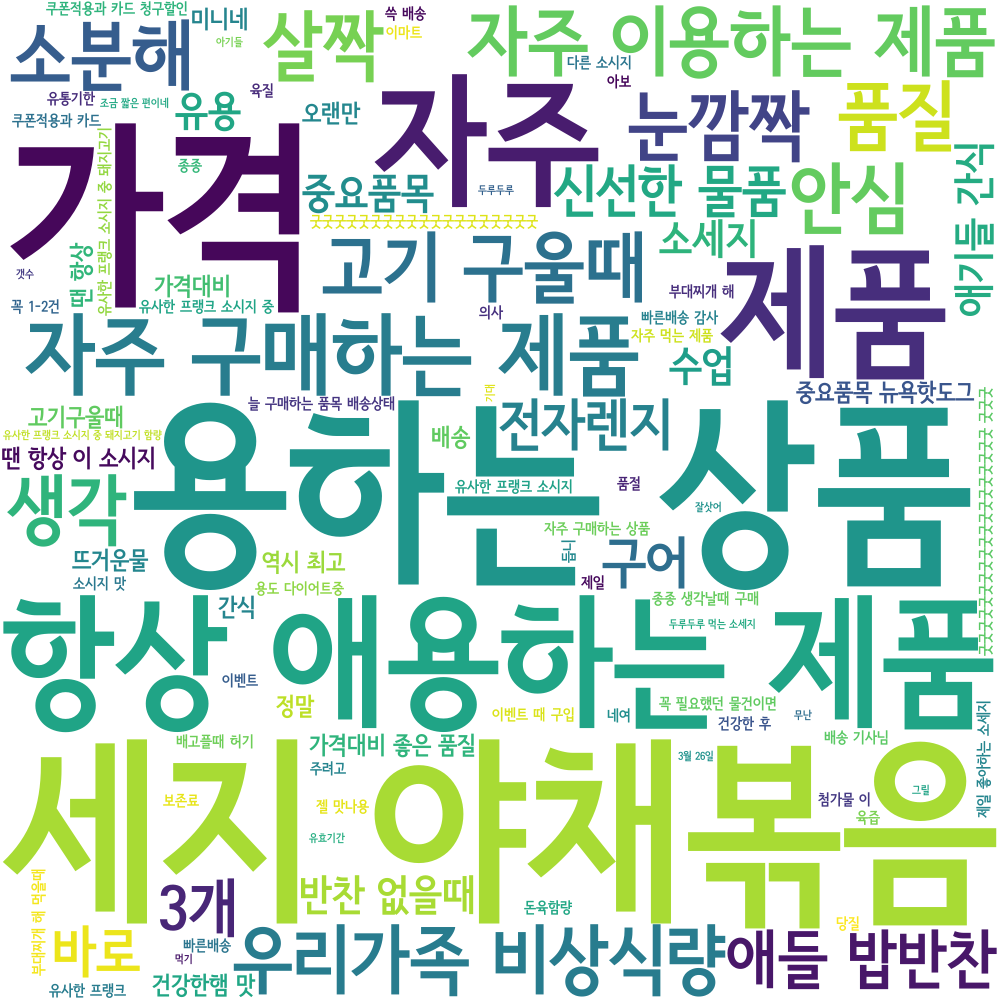
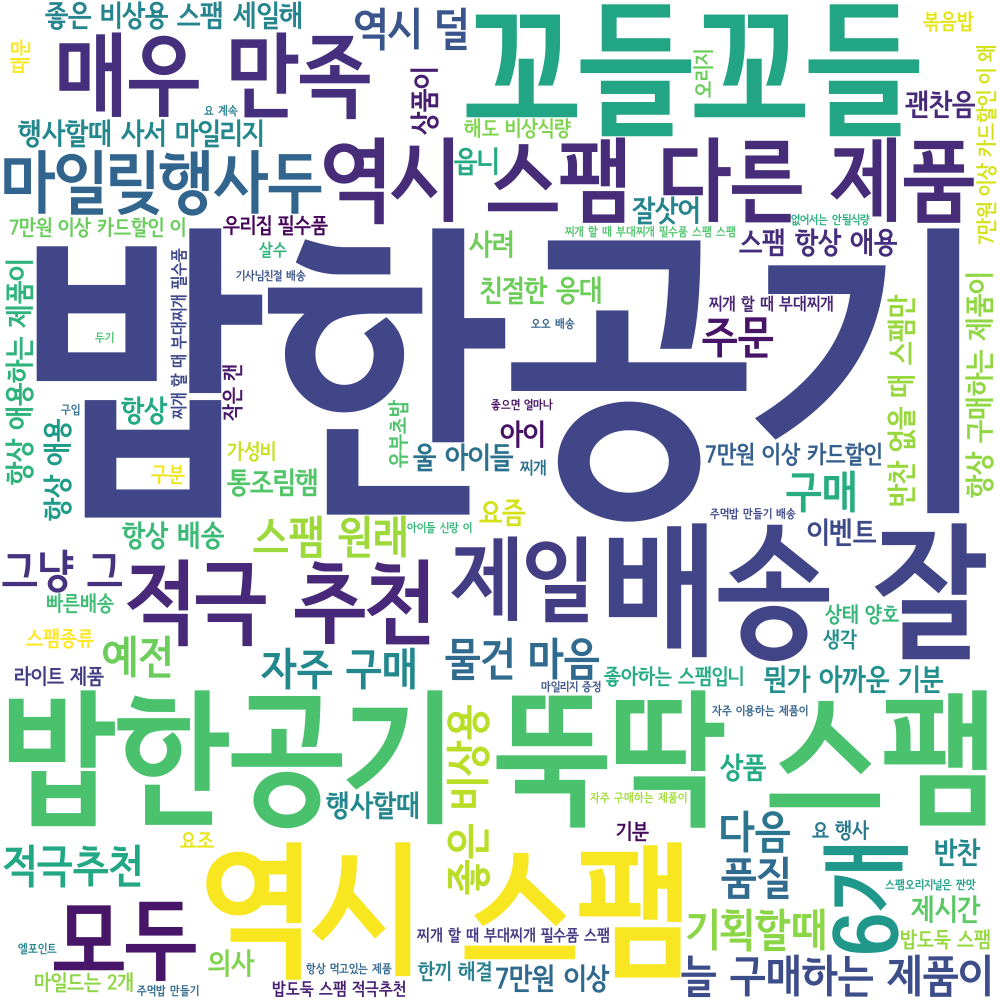
텍스트마이닝 순차실행 완료

diff --git a/7_KEYWORD/textmining.py b/7_KEYWORD/textmining.py
@@ -51,7 +51,7 @@ def excuteMining(maxLen,barcode):
     print("string done.")
     # print(strReview)
     if len(strReview) > maxLen:
-        strReview = strReview[-maxLen:-1]
+        strReview = strReview[0:maxLen]
     print(strReview)
     visualize(get_noun(strReview))
     # newVisualize(get_noun(strReview))
